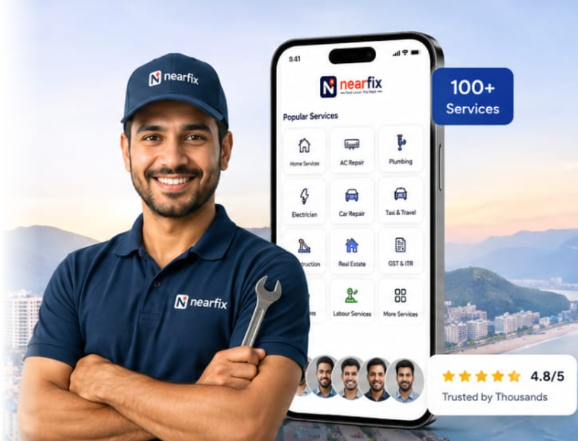
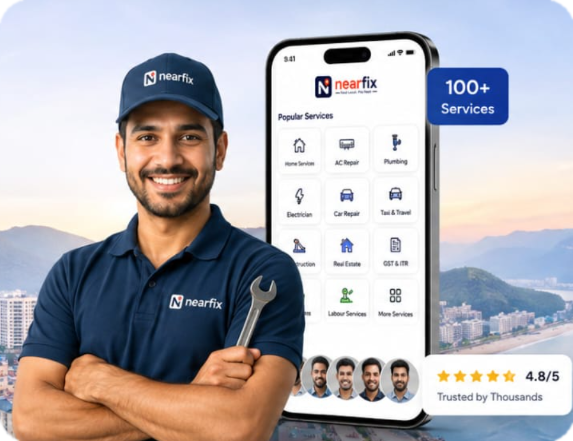
fix: Remove dark left gradient patch work bar from hero technician visual for clean clear presentation

diff --git a/src/pages/HomePage.tsx b/src/pages/HomePage.tsx
@@ -196,18 +196,18 @@ export const HomePage: React.FC<HomePageProps> = ({ onOpenCall, onOpenWhatsApp, 
 
             </div>
 
-            {/* RIGHT COLUMN: Floating Clean Technician & Phone Visual (from Image 31) */}
+            {/* RIGHT COLUMN: Clean Floating Technician & Phone Visual (from Image 31) */}
             <div className="lg:col-span-5 relative mt-4 lg:mt-0 flex items-center justify-center">
-              <div className="relative max-w-md lg:max-w-none group animate-float-slow">
+              <div className="relative max-w-sm sm:max-w-md lg:max-w-none mx-auto group animate-float-slow">
                 
-                {/* Subtle soft ambient glow behind visual */}
-                <div className="absolute -inset-2 bg-gradient-to-r from-emerald-400/20 to-orange-400/20 rounded-3xl blur-2xl opacity-50 group-hover:opacity-75 transition duration-700" />
+                {/* Soft natural radial glow behind visual */}
+                <div className="absolute -inset-2 bg-gradient-to-r from-emerald-400/15 via-orange-400/15 to-amber-400/15 rounded-full blur-2xl opacity-60 group-hover:opacity-85 transition duration-700" />
 
-                {/* Clean Floating Image without white box border */}
+                {/* Clean Floating Image without any box border, white background, or dark patch work */}
                 <img
                   src="/hero-technician-visual.png"
                   alt="Nearfix Verified Technician & Smartphone App"
-                  className="relative z-10 w-full h-auto object-contain max-h-[440px] rounded-2xl filter drop-shadow-[0_15px_25px_rgba(0,0,0,0.6)] transform transition-transform duration-700 group-hover:scale-105"
+                  className="relative z-10 w-full h-auto object-contain max-h-[460px] filter drop-shadow-[0_18px_28px_rgba(0,0,0,0.55)] transform transition-transform duration-700 group-hover:scale-105"
                 />
 
               </div>
